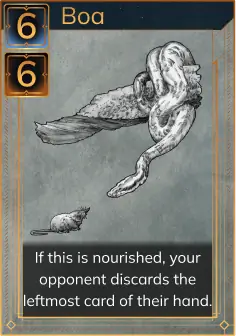
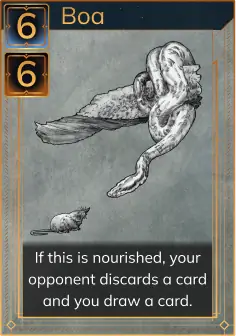
Temporary fix for getting decks from server. Nerfed boa

Changed region(s): [[0.089, 0.8036, 0.8898, 0.9226]]

diff --git a/client/src/network/userDataServer.ts b/client/src/network/userDataServer.ts
@@ -237,10 +237,13 @@ export default class UserDataServer {
     // Decks must be translated from string, string to dictionary
     let decks = []
     data.decks.forEach((pair) => {
-      let name = pair[0]
-      let deckCode = pair[1]
-      // TODO Decks must have an avatar
-      let avatar = pair[2] | 0
+      // TODO Use better encoding to prevent this
+      if (pair.count(',') !== 2) {
+        throw 'Invalid deck encoding'
+      }
+
+      // Split the pair into name, deckCode, avatar
+      const [name, deckCode, avatar] = pair.split(',')
 
       decks.push({ name: name, value: deckCode, avatar: avatar })
     })

diff --git a/shared/state/catalog/shadow.ts b/shared/state/catalog/shadow.ts
@@ -101,7 +101,7 @@ const boa = new Boa({
   id: 57,
   cost: 6,
   points: 6,
-  text: 'If this is nourished, your opponent discards a card.',
+  text: 'If this is nourished, your opponent discards a card and you draw a card.',
   story: 'I reach I win I have it.\nIt is all mine now!\nCan I make it me?',
 })
 
